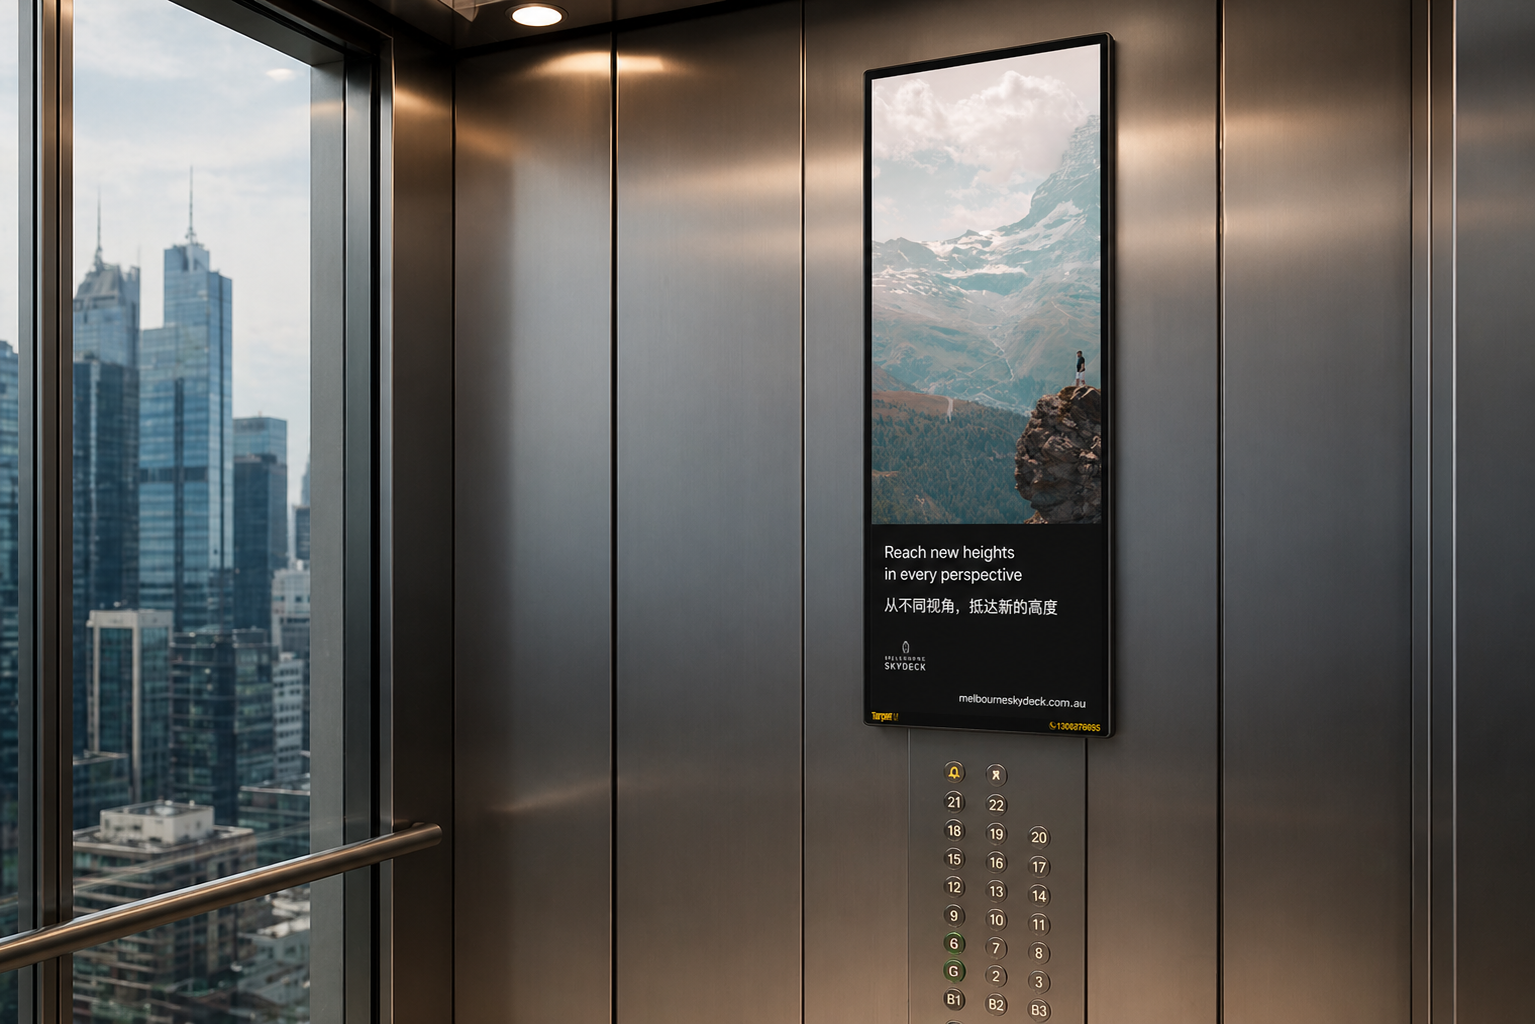
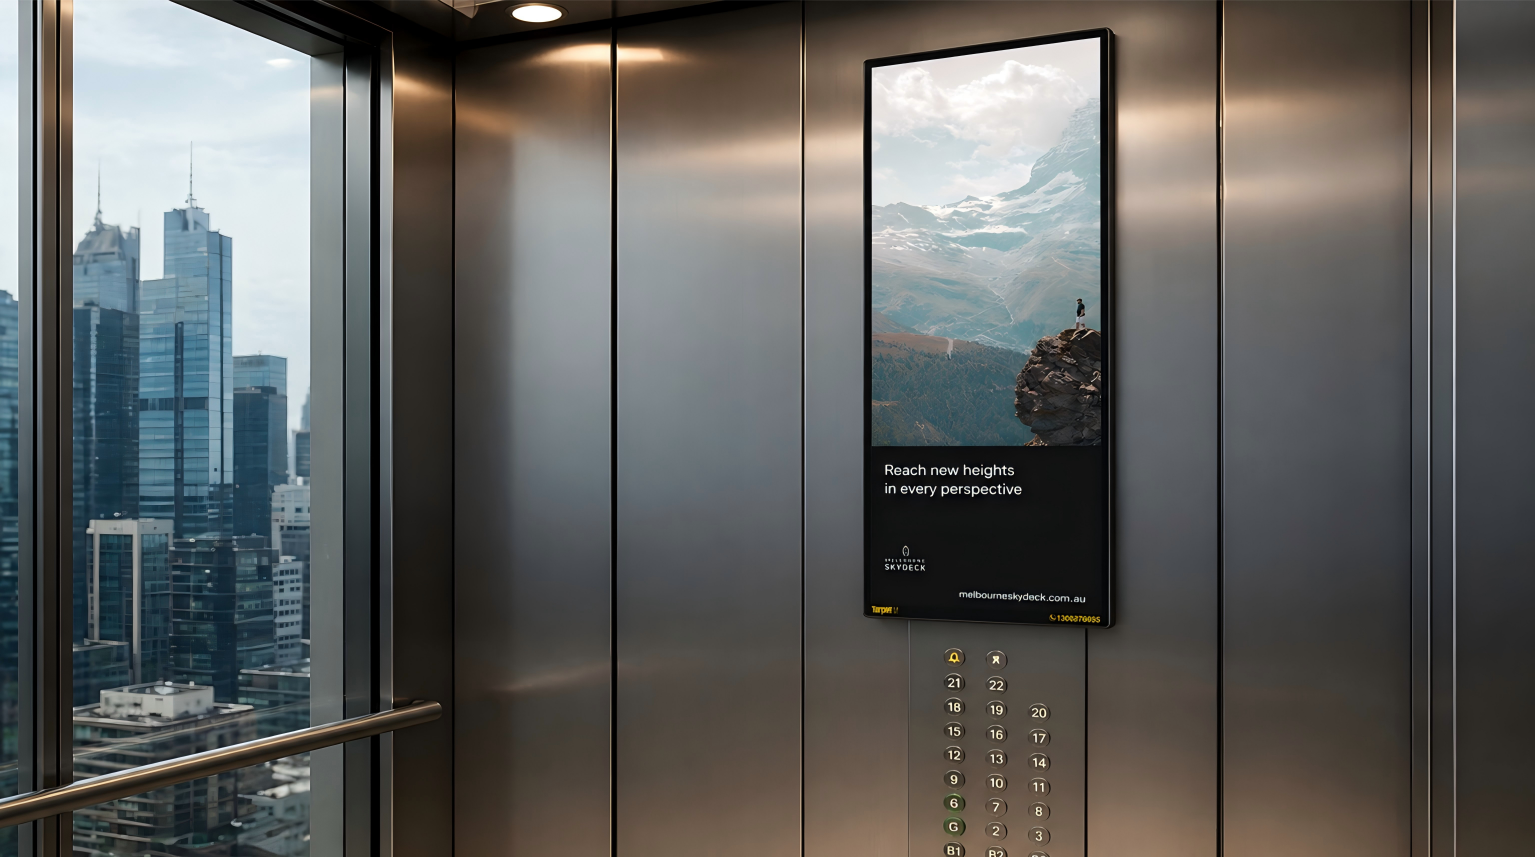
update image

diff --git a/main.js b/main.js
@@ -49,11 +49,11 @@
   var stage = document.querySelector('.stage-3d');
   if (stage) {
     var MODELS = [
-      { name: '25-inch Smart LCD', img: 'assets/g-lift.webp',
+      { name: '25-inch Smart LCD', img: 'assets/25-png.png',
         alt: '25-inch Focus Media screen installed inside a lift' },
-      { name: '32-inch Smart LCD', img: 'assets/g-directory.webp',
+      { name: '32-inch Smart LCD', img: 'assets/32-png.png',
         alt: '32-inch Focus Media screen wall-mounted in a corridor' },
-      { name: '55-inch Smart LCD', img: 'assets/g-entry.webp',
+      { name: '55-inch Smart LCD', img: 'assets/55-png.png',
         alt: '55-inch Focus Media freestanding screen at a building entrance' }
     ];
     var img = document.getElementById('modelImg');

diff --git a/index.html b/index.html
@@ -298,7 +298,7 @@
               <div class="product" id="modelProduct">
                 <img
                   id="modelImg"
-                  src="assets/g-lift.webp"
+                  src="assets/25-png.png"
                   alt="25-inch Focus Media screen installed inside a lift"
                 />
                 <div class="spec s1">
@@ -718,7 +718,7 @@
                         <div class="nm">222 Lonsdale</div>
                         <div class="su">CBD</div>
                       </div>
-                    </div>
+                    </div> 
                   </div>
                 </div>
               </div>

diff --git a/styles.css b/styles.css
@@ -214,7 +214,7 @@ section{padding-block:clamp(56px,9vw,104px)}
   gap:var(--s4);perspective:1400px;padding:var(--s5) 0}
 .product{position:relative;width:min(280px,62vw);flex:none;transform-style:preserve-3d;
   transition:transform .5s var(--ease)}
-.product img{width:100%;aspect-ratio:3/4;object-fit:cover;display:block;border-radius:var(--r-lg);
+.product img{width:100%;height:auto;object-fit:contain;display:block;border-radius:var(--r-lg);
   border:1px solid var(--line);box-shadow:var(--e3);transition:opacity .35s ease}
 .dark .product img{border-color:rgba(247,245,240,.14)}
 
